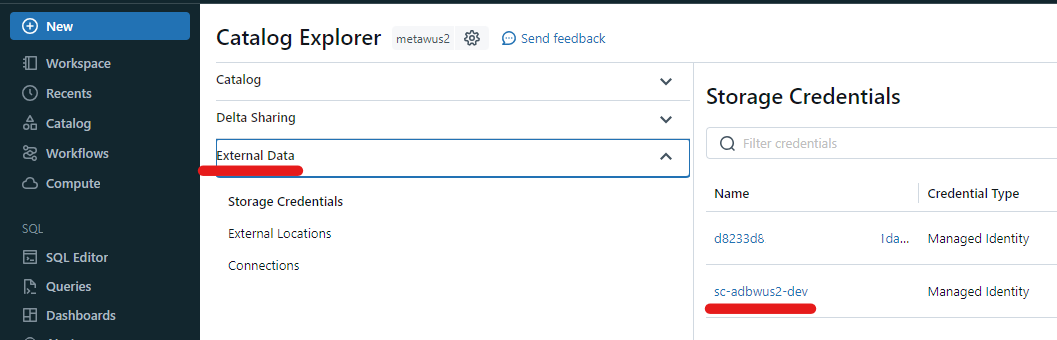
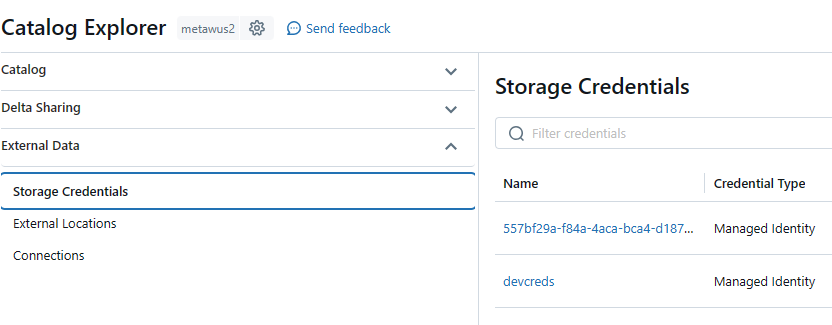
iac finalized

diff --git a/iac-adb-360/README.md b/iac-adb-360/README.md
@@ -144,7 +144,7 @@ In order for the next part to work, we need to create credentials using the mana
 
 4.1. make sure the variables in Azure Devops are in place (you're going to have to add a few more)
 
-![ADO-Variables](/imagery/ado-variables.png)
+![ADO-Variables](/imagery/allpipelinevars-vgadb360dev.png)
 
 4.2. create a pipeline off of /iac-adb-360/pipelines/azure/bootstrap-ucdbs.yml
 
@@ -153,7 +153,7 @@ In order for the next part to work, we need to create credentials using the mana
 
 After the successful run of this pipeline, you should see:
 
-the catalog and schema
+the catalog and schema on the different storage location
 
 ![Catalog-and-Schema](/imagery/uccatalogresult.png)
 
@@ -162,11 +162,11 @@ the Storage-Credentials
 
 ![Storage-Creds](/imagery/uc-storage-creds.png)
 
-and the External Location
+and the two External Locations - cat and bronze
 
-![External-Location](/imagery/uc-extlocation-bronze.png)
+![External-Location](/imagery/uc-extlocations.png)
 
 
-That's it ! All the installations and configurations are completed now and you can change to the workspace and start working on the [precreated notebooks](/content-adb-360/README.md)
+This concludes the IaC part! All the installations and configurations are completed now and you can change to the workspace and start working on the [precreated notebooks](/content-adb-360/README.md)
 
 
